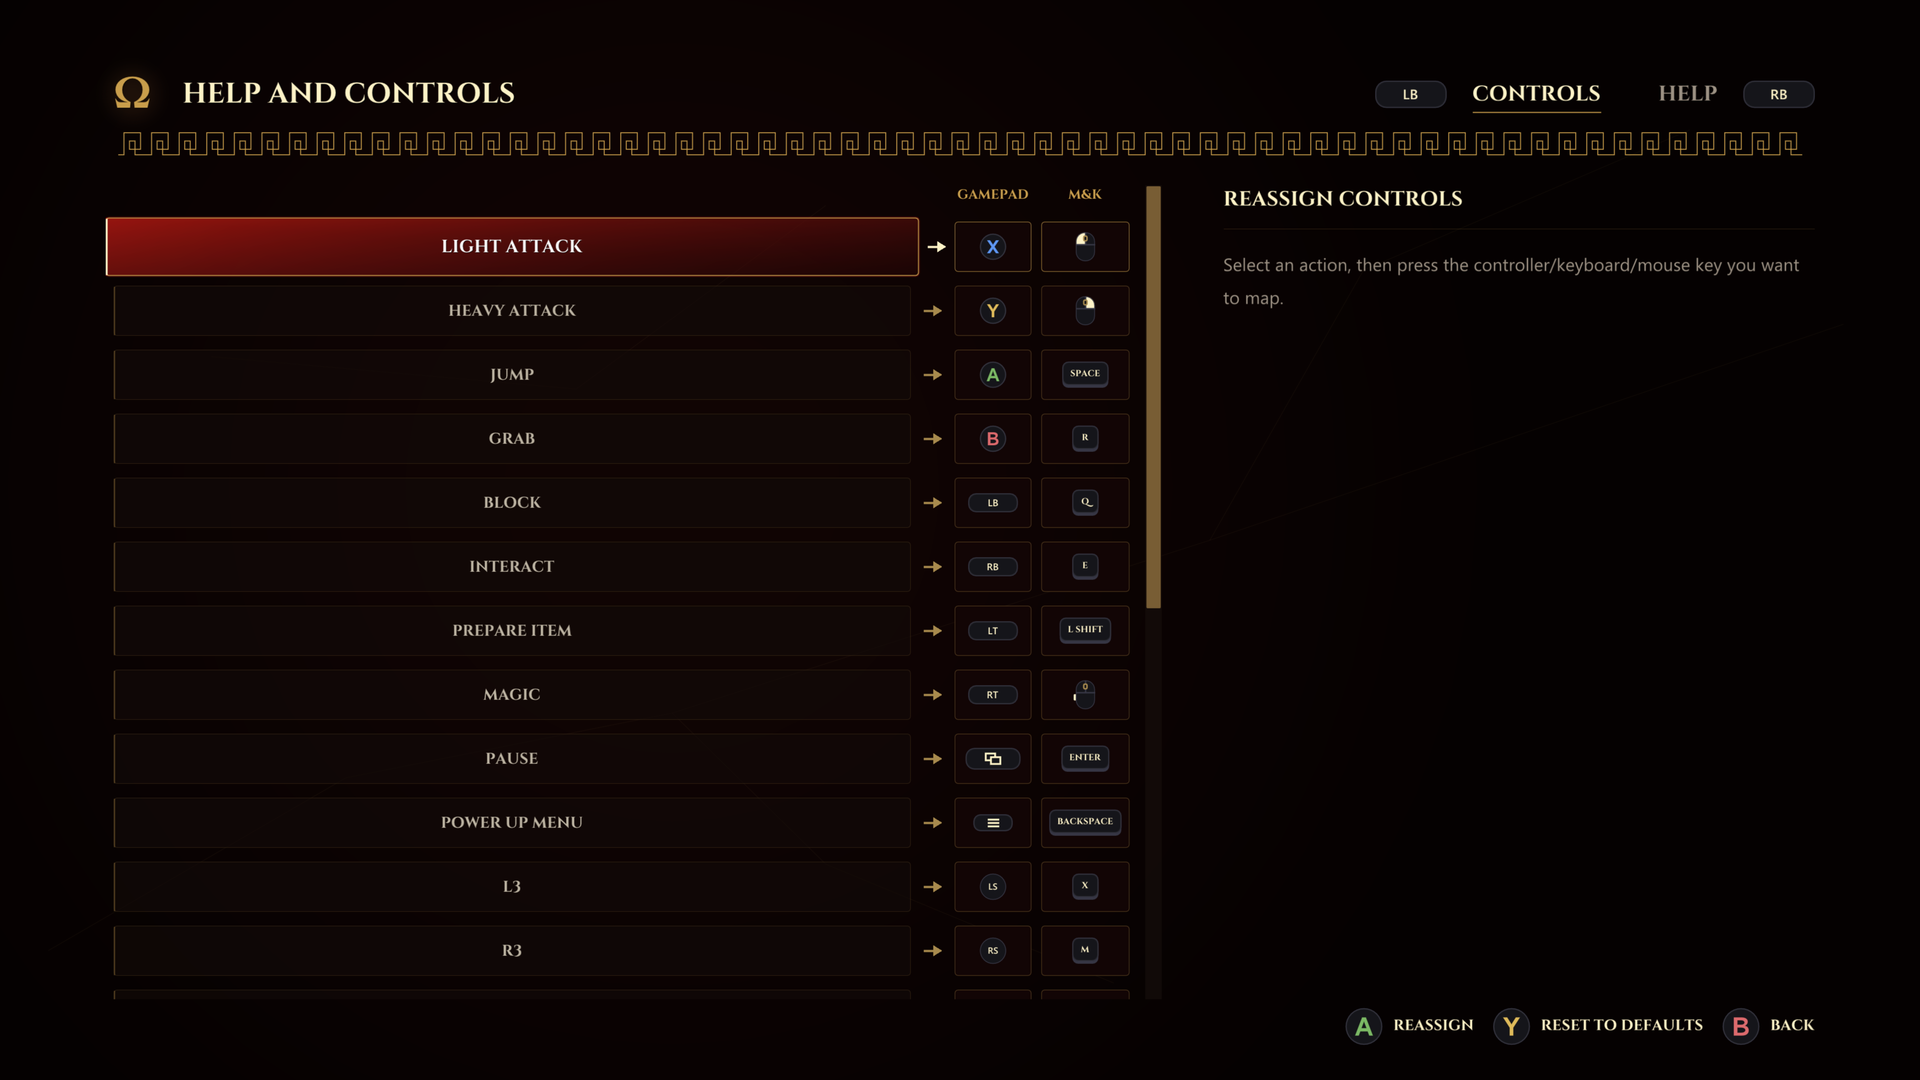
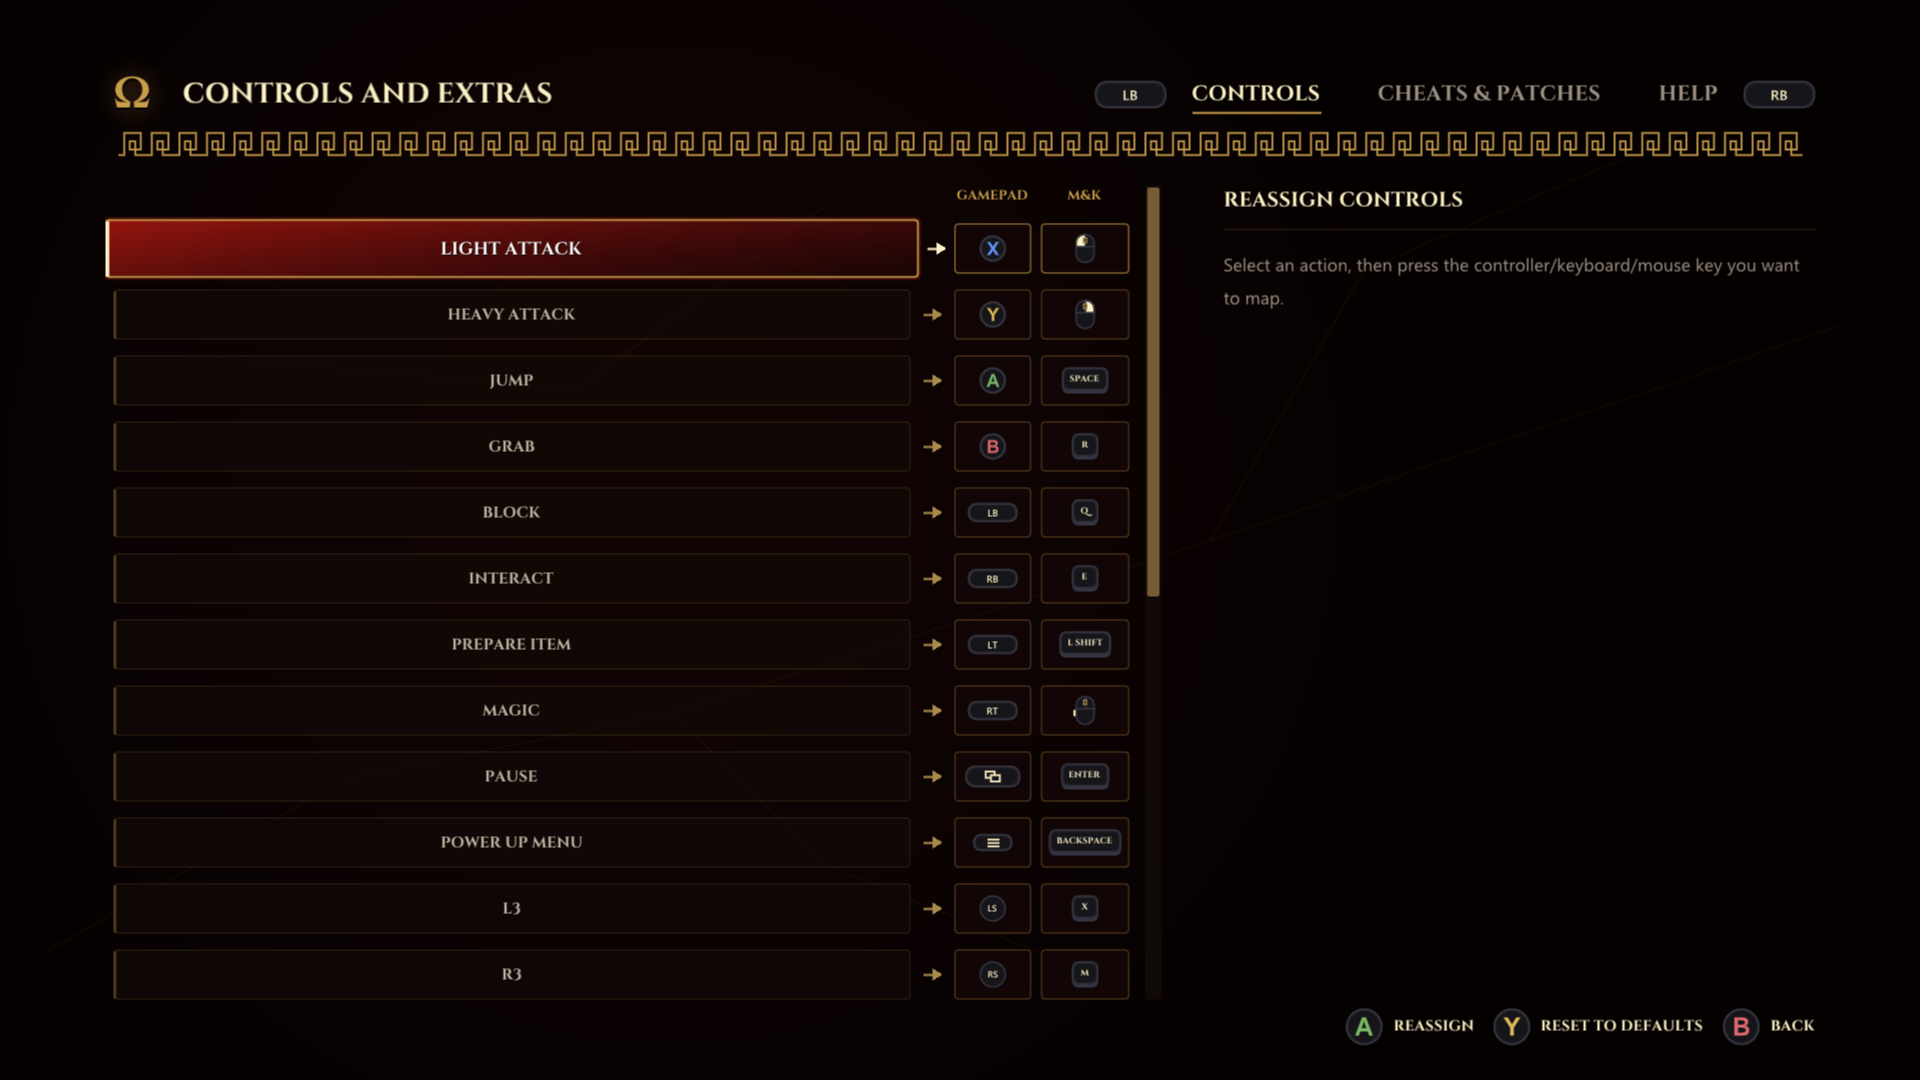
docs: refine README sections, add patch credits, save import notes and updated menu screenshots

diff --git a/README.md b/README.md
@@ -36,9 +36,7 @@ The standard build requires an x86-64-v3 CPU (including AVX2, BMI1/2, FMA, F16C,
 
 The experimental AVX1 build may work on some CPUs older than 4th-generation Intel Core or AMD Ryzen 1000. The same GPU requirements apply. Feel free to [report any issues](#reporting-bugs).
 
-The renderer requires Vulkan 1.3 with depth clip control, push descriptors, conditional rendering, sparse buffer residency and min/max sampler filtering, and uses shader objects where the driver has them. Experimental fallbacks support older GPUs without them (AMD Vega/Polaris, Intel UHD Graphics; Arc/Xe untested, but should also work). Please update to the latest drivers. On Linux, Radeon also needs `VK_KHR_maintenance5`. Windows capability reports are available for the [Radeon RX 5300](https://vulkan.gpuinfo.org/displayreport.php?id=53293), [Radeon RX 5500 XT](https://vulkan.gpuinfo.org/displayreport.php?id=45797) and [GeForce GTX 950](https://vulkan.gpuinfo.org/displayreport.php?id=47069).
-
-The game has to be in a folder that contains `eboot.bin`, `sce_module` and `sce_sys`. A game that is still packaged in a single file has to be extracted first. Only version 1.02 works, because GOW3rehooked modifies the game at exact locations of that version's executable.
+The renderer requires Vulkan 1.3 with depth clip control, push descriptors, conditional rendering, sparse buffer residency and min/max sampler filtering, and uses shader objects where the driver has them. Experimental fallbacks support older GPUs without them (AMD Vega/Polaris, Intel UHD Graphics; Arc/Xe untested, but should also work). Please update to the latest drivers. On Linux, Radeon also needs `VK_KHR_maintenance5`.
 
 ## Installation
 
@@ -65,9 +63,7 @@ Only use the AVX1 build if your CPU doesn't meet the requirements for the standa
 3. Run `gow3.exe`. The first few launches may show the [shader preparation screen](#shaders-prepared-in-advance).
 4. Choose your settings under Rehooked in the title menu.
 
-Windows releases check for updates at startup. Choose **Yes** to install the same CPU variant and reopen the game, or **No** to skip that release. To see the offer again, delete `_rehooked_/settings/skipped-release.txt`. Updates keep your existing `gow3.exe` and `gow3_debug.exe` and replace the runtime they start. The previous runtime is saved as `gow3.update.old`. Release ZIPs also contain a `gow3_update.exe`, which lets v0.1.5 and v0.1.6 install them; the game deletes it when it starts.
-
-When installing another Windows build manually over one that already has `gow3.dll`, keep the two existing launchers and extract the new runtime and the other files.
+Windows releases check for updates at startup. Choose **Yes** to install the same CPU variant and reopen the game, or **No** to skip that release. To see the offer again, delete `_rehooked_/settings/skipped-release.txt`.
 
 ### Linux
 
@@ -80,6 +76,8 @@ On startup, release AppImages offer to install the latest version for your CPU v
 If your extractor dropped the executable bits, run `chmod +x gow3*.AppImage`. On systems without FUSE, run `APPIMAGE_EXTRACT_AND_RUN=1 ./gow3.AppImage`. For [diagnostics](#reporting-bugs), use `./gow3_debug.AppImage` with the same prefix if needed.
 
 For a source build, use Clang and LLD, a C++23 standard library such as libstdc++ 14, CMake, Ninja, NASM, Vulkan headers 1.4.328 or newer, `glslc`, shaderc, glslang, SPIRV-Tools, and libunwind. The [workflow](.github/workflows/windows.yml) lists the Ubuntu 24.04 packages. Run `bash build-fast.sh --release`, then `build-fast/Linux/Release/bin/gow3 --game-dir /path/to/game`. Add `--ivy-bridge` to build for AVX1.
+
+### Important files
 
 The game stores its settings, saves and diagnostics in `_rehooked_`:
 
@@ -158,9 +156,26 @@ The added screens show PlayStation symbols for a DualShock 3, DualShock 4 or Dua
 
 Every cheat and patch is off by default.
 
+Thanks to the people involved in developing, researching and porting these cheats and patches: **SpartanPort**, **Celogamez** and **erickmendes22**.
+
+<table>
+  <tr>
+    <td width="33%"><img src="assets/screenshots/controls.png" alt="Controls tab with Xbox-style gamepad prompts and keyboard and mouse bindings"></td>
+    <td width="33%"><img src="assets/screenshots/cheats-patches.png" alt="Cheats & Patches tab with controller vibration, cheats and visual patches"></td>
+    <td width="33%"><img src="assets/screenshots/help.png" alt="Help tab explaining the Resolution setting"></td>
+  </tr>
+  <tr>
+    <td align="center">Controls</td>
+    <td align="center">Cheats &amp; Patches</td>
+    <td align="center">Help</td>
+  </tr>
+</table>
+
 ### Menus and saves
 
 Continue appears above New Game once you have a save and directly loads the latest. The game originally has 32 manual save slots. GOW3rehooked raises that to 64. The save and load screens let you duplicate or delete saves. Open Save Folder opens the selected save in your file manager.
+
+On first launch, GOW3rehooked offers to import existing saves from **shadPS4** or **SpartanPort**. It looks in the usual locations automatically and lets you pick a folder if none are found. Existing saves are never overwritten; to see the import prompt again later, delete `_rehooked_/settings/saves.flag`.
 
 Rehooked holds every setting in the game's own menu style, feel free to tinker. [Controls and Extras](#controls-and-extras) explains each setting, remaps the controls and holds the cheats and patches.
 
@@ -174,14 +189,6 @@ The opening logos can be skipped, and so can any video or cutscene, by pressing 
   <tr>
     <td align="center">Load Game</td>
     <td align="center">Save Game</td>
-  </tr>
-  <tr>
-    <td width="50%"><img src="assets/screenshots/controls.png" alt="Controls screen with Xbox-style gamepad prompts and keyboard and mouse bindings"></td>
-    <td width="50%"><img src="assets/screenshots/help.png" alt="Help screen explaining the Resolution setting"></td>
-  </tr>
-  <tr>
-    <td align="center">Controls</td>
-    <td align="center">Help</td>
   </tr>
 </table>
 
